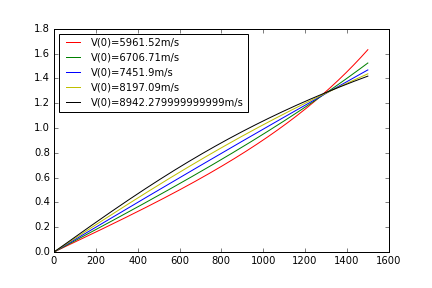
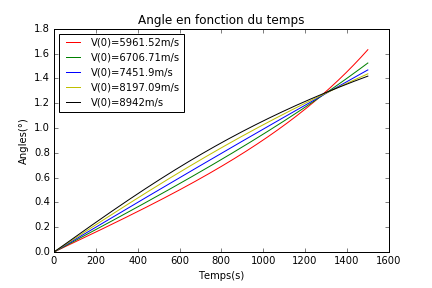
Beautiful curves 2

diff --git a/pi.py b/pi.py
@@ -42,24 +42,44 @@ def f(var,t):
 #--------------------------- Fonction qui trace sur un même graphique --------------------
 #--------------------------les différentes listes qu'elle prend en argument ------------------------- 
     
-def trace1(L1,L2,L3,L4,L5,R,n):
-    if L1[2]==L2[2]:
+def trace1(L1,L2,L3,L4,L5,R,n): #cette fonction permet de ne pas réecrire 20 lignes pour chaque tracé de courbes
+    if L1[2]==L2[2]:            #on teste si c'est le pas ou les CI qui changent
         plt.plot(L1[0],L1[1],'r',label="P="+str(0.01*n))
         plt.plot(L2[0],L2[1],'g',label="P="+str(0.1*n))
         plt.plot(L3[0],L3[1],'b',label="P="+str(n))
         plt.plot(L4[0],L4[1],'y',label="P="+str(10*n))
         plt.plot(L5[0],L5[1],'black',label="P="+str(100*n))
-        plt.title("V(0)="+str(V[L1[2]])+"m/s")
+        plt.title("Angle en fonction du temps (pour V(0)="+str(V[L1[2]])+"m/s)")
     else:
         plt.plot(L1[0],L1[1],'r',label="V(0)="+str(V[L1[2]])+"m/s")
         plt.plot(L2[0],L2[1],'g',label="V(0)="+str(V[L2[2]])+"m/s")
         plt.plot(L3[0],L3[1],'b',label="V(0)="+str(V[L3[2]])+"m/s")
         plt.plot(L4[0],L4[1],'y',label="V(0)="+str(V[L4[2]])+"m/s")
         plt.plot(L5[0],L5[1],'black',label="V(0)="+str(round(V[L5[2]]))+"m/s")
+        plt.title("Rayon en fonction du temps")
     plt.plot(R[0],R[1],'purple',label="Surface de la Terre")
     plt.ylim(0.4*10**(7),1.2*10**(7))
     plt.xlabel("Temps(s)")
     plt.ylabel("Rayons(m)")
+    plt.legend(loc=2,prop={'size':10})
+    
+def trace2(L1,L2,L3,L4,L5,n):
+    if L1[2]==L2[2]:            #on teste si c'est le pas ou les CI qui changent
+        plt.plot(L1[0],L1[1],'r',label="P="+str(0.01*n))
+        plt.plot(L2[0],L2[1],'g',label="P="+str(0.1*n))
+        plt.plot(L3[0],L3[1],'b',label="P="+str(n))
+        plt.plot(L4[0],L4[1],'y',label="P="+str(10*n))
+        plt.plot(L5[0],L5[1],'black',label="P="+str(100*n))
+        plt.title("Angle en fonction du temps (pour V(0)="+str(V[L1[2]])+"m/s)")
+    else:
+        plt.plot(L1[0],L1[1],'r',label="V(0)="+str(V[L1[2]])+"m/s")
+        plt.plot(L2[0],L2[1],'g',label="V(0)="+str(V[L2[2]])+"m/s")
+        plt.plot(L3[0],L3[1],'b',label="V(0)="+str(V[L3[2]])+"m/s")
+        plt.plot(L4[0],L4[1],'y',label="V(0)="+str(V[L4[2]])+"m/s")
+        plt.plot(L5[0],L5[1],'black',label="V(0)="+str(round(V[L5[2]]))+"m/s")
+        plt.title("Angle en fonction du temps")
+    plt.xlabel("Temps(s)")
+    plt.ylabel("Angles(°)")
     plt.legend(loc=2,prop={'size':10})
 
 #--------------------- Fonctions donnant les solutions ------------------------- 
@@ -143,17 +163,11 @@ def compare1(tf,n):         #trace les rayons et angles obtenus avec Euler
     T,Y2,A2=recurrence(tf,n,2)
     T,Y3,A3=recurrence(tf,n,3)
     T,Y4,A4=recurrence(tf,n,4)
-    R=[Rt for i in range(len(T))]    
-    plt.title("Rayon en fonction du temps")
+    R=[Rt for i in range(len(T))]
     trace1([T,Y0,0],[T,Y1,1],[T,Y2,2],[T,Y3,3],[T,Y4,4],[T,R,0],n)
     plt.savefig("GrapheEuler.png")
     plt.show()
-    plt.plot(T,A0,'r',label="V(0)="+str(V[0])+"m/s")
-    plt.plot(T,A1,'g',label="V(0)="+str(V[1])+"m/s")
-    plt.plot(T,A2,'b',label="V(0)="+str(V[2])+"m/s")
-    plt.plot(T,A3,'y',label="V(0)="+str(V[3])+"m/s")
-    plt.plot(T,A4,'k',label="V(0)="+str(V[4])+"m/s")
-    plt.legend(loc=2,prop={'size':10})
+    trace2([T,A0,0],[T,A1,1],[T,A2,2],[T,A3,3],[T,A4,4],n)
     plt.savefig("GrapheEuler2.png")
     plt.show()
     
@@ -167,12 +181,7 @@ def compare2(tf,n):         #trace les rayons et angles obtenus avec Odeint
     trace1([T,Y0,0],[T,Y1,1],[T,Y2,2],[T,Y3,3],[T,Y4,4],[T,R,0],n)
     plt.savefig("GrapheOdeint.png")
     plt.show()
-    plt.plot(T,A0,'r',label="V(0)="+str(V[0])+"m/s")
-    plt.plot(T,A1,'g',label="V(0)="+str(V[1])+"m/s")
-    plt.plot(T,A2,'b',label="V(0)="+str(V[2])+"m/s")
-    plt.plot(T,A3,'y',label="V(0)="+str(V[3])+"m/s")
-    plt.plot(T,A4,'k',label="V(0)="+str(V[4])+"m/s")
-    plt.legend(loc=2,prop={'size':10})
+    trace2([T,A0,0],[T,A1,1],[T,A2,2],[T,A3,3],[T,A4,4],n)
     plt.savefig("GrapheOdeint2.png")
     plt.show()
     
@@ -198,12 +207,11 @@ def compare4(tf,n,i):         #trace les rayons et angles obtenus avec Euler
     T4,Y4,A4=recurrence(tf,P4*n,i)
     R=[Rt]*(len(T0))
     trace1([T0,Y0,i],[T1,Y1,i],[T2,Y2,i],[T3,Y3,i],[T4,Y4,i],[T0,R,i],n)
+    plt.savefig("compareEuler.png")
+    plt.show()
     plt.figure(2)    
-    plt.plot(T0,A0,'r')
-    plt.plot(T1,A1,'g')
-    plt.plot(T2,A2,'b')
-    plt.plot(T3,A3,'y')
-    plt.plot(T4,A4,'k')
+    trace2([T0,A0,i],[T1,A1,i],[T2,A2,i],[T3,A3,i],[T4,A4,i],n)
+    plt.savefig("compareEuler2.png")
     plt.show()
     
 def compare5(tf,n,i):         #trace les rayons et angles obtenus avec Odeint
@@ -214,12 +222,11 @@ def compare5(tf,n,i):         #trace les rayons et angles obtenus avec Odeint
     T4,Y4,A4=solscipy(tf,n*P4,i)
     R=[Rt]*(len(T0))
     trace1([T0,Y0,i],[T1,Y1,i],[T2,Y2,i],[T3,Y3,i],[T4,Y4,i],[T0,R,i],n)
+    plt.savefig("CompareOdeint.png")
+    plt.show()
     plt.figure(2)
-    plt.plot(T0,A0,'r')
-    plt.plot(T1,A1,'g')
-    plt.plot(T2,A2,'b')
-    plt.plot(T3,A3,'y')
-    plt.plot(T4,A4,'k')
+    trace2([T0,A0,i],[T1,A1,i],[T2,A2,i],[T3,A3,i],[T4,A4,i],n)
+    plt.savefig("CompareOdeint2.png")
     plt.show()
     
 def compare6(tf,n,i):   #trace les rayons et angles obtenus avec la solution exacte
@@ -228,8 +235,10 @@ def compare6(tf,n,i):   #trace les rayons et angles obtenus avec la solution exa
     T2,Y2,A2=solexacte(tf,P2*n,i)
     T3,Y3,A3=solexacte(tf,P3*n,i)
     T4,Y4,A4=solexacte(tf,P4*n,i)
-    R=[Rt]*(len(T1))
+    R=[Rt]*(len(T0))
     trace1([T0,Y0,i],[T1,Y1,i],[T2,Y2,i],[T3,Y3,i],[T4,Y4,i],[T0,R,i],n)
+    plt.savefig("CompareExacte.png")
+    plt.show()
 
 #-------- Fonction pour comparer graphiquement les solutions ------------------
 #------------- obtenues grâce aux différentes méthodes ------------------------- 
